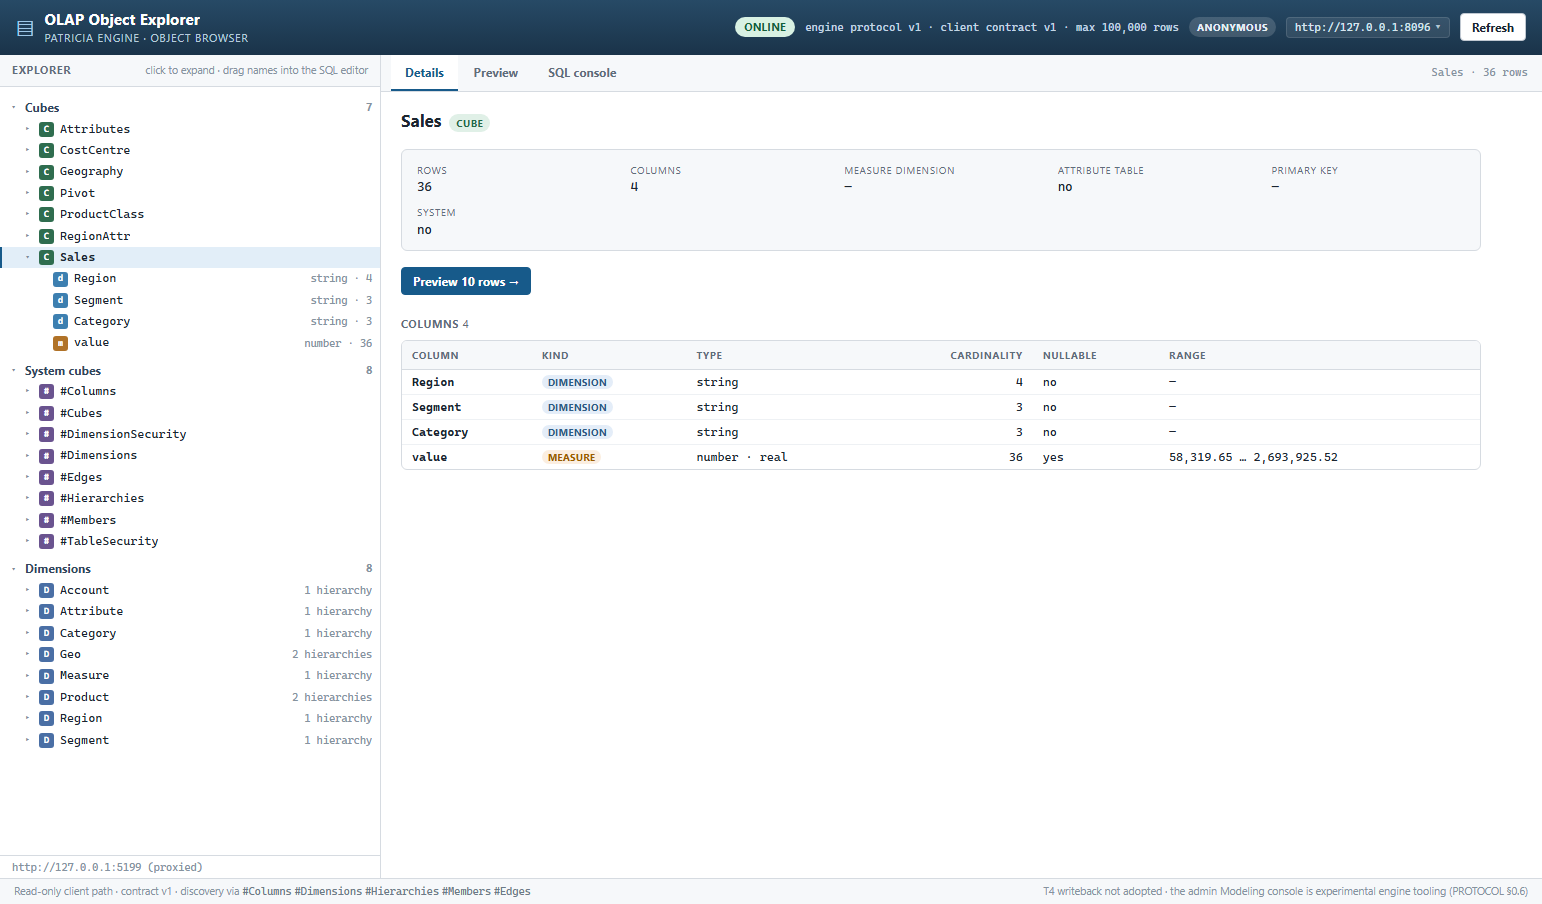
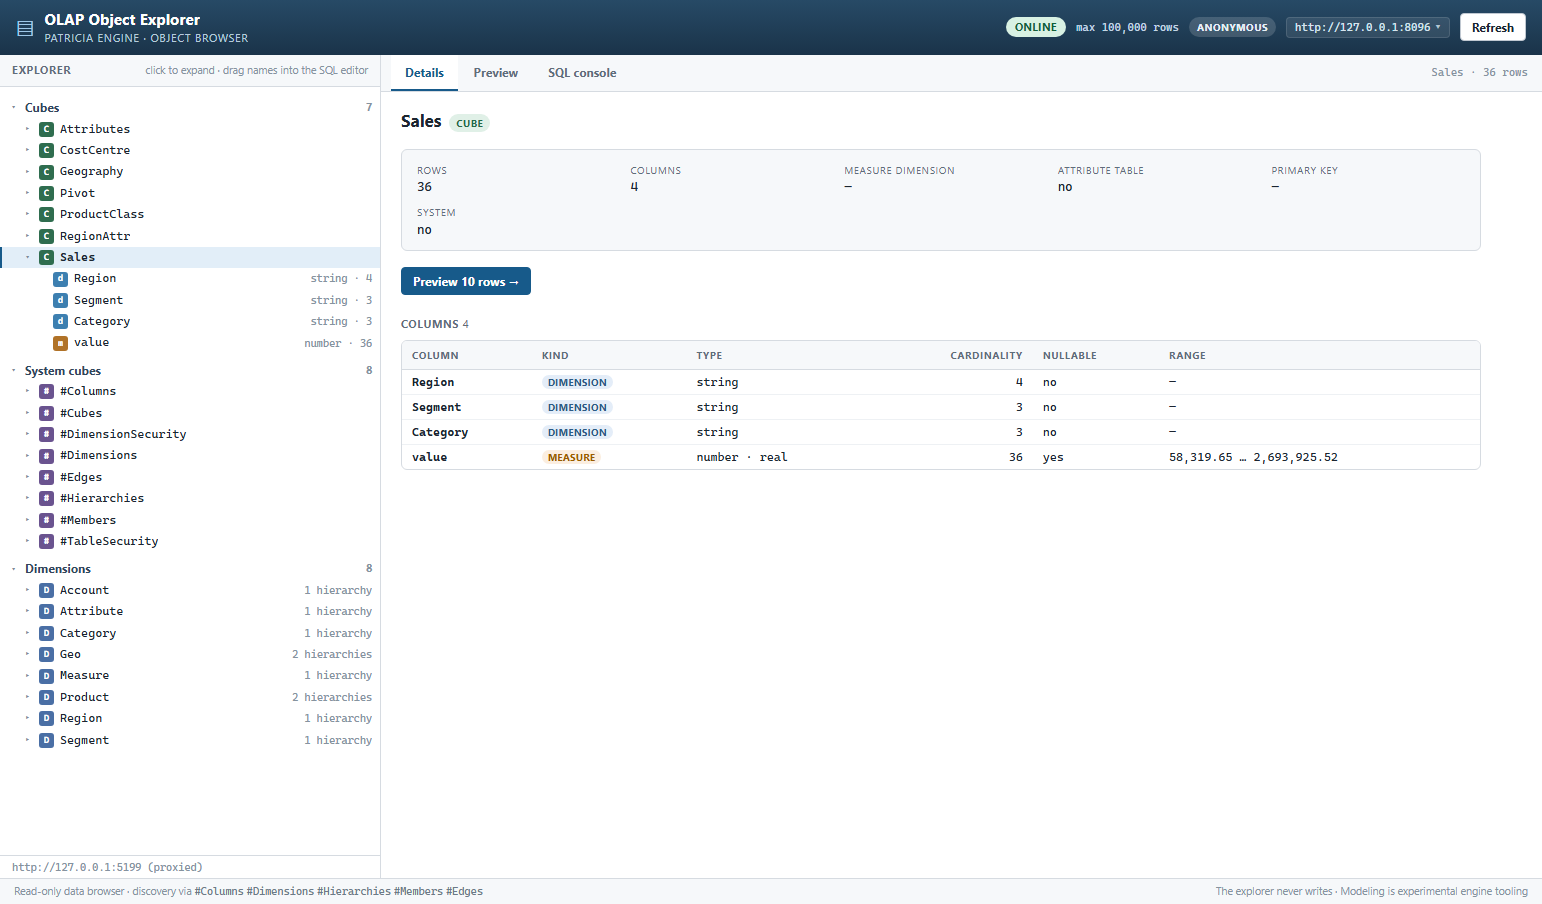
chore(ui): remove contract/protocol jargon from screen copy
Screens no longer cite contracts, PROTOCOL sections, tiers, handoffs or
protocolVersion. The header keeps only the row cap; the footer says the
explorer never writes; the version guard, SQL/CLI hints and Details domain/
system-cube notes are reworded in plain language. Internal comments and the
README keep the technical references. Verification updated for the new version
panel wording (66 checks).

diff --git a/src/App.tsx b/src/App.tsx
@@ -498,7 +498,6 @@ export default function App() {
           </span>
           {capabilities.status === 'ready' && (
             <span className="header-meta">
-              engine protocol v{capabilities.data.protocolVersion} · client contract v{SUPPORTED_PROTOCOL_VERSION} ·
               max {formatCount(capabilities.data.maxRows)} rows
             </span>
           )}          {capabilities.status === 'ready' && capabilities.data.authRequired === false && (
@@ -651,14 +650,10 @@ export default function App() {
 
       <footer className="app-footer">
         <span>
-          Read-only client path · contract v{SUPPORTED_PROTOCOL_VERSION} · discovery via{' '}
-          <code>#Columns</code> <code>#Dimensions</code> <code>#Hierarchies</code>{' '}
-          <code>#Members</code> <code>#Edges</code>
+          Read-only data browser · discovery via <code>#Columns</code> <code>#Dimensions</code>{' '}
+          <code>#Hierarchies</code> <code>#Members</code> <code>#Edges</code>
         </span>
-        <span>
-          T4 writeback not adopted · the admin Modeling console is experimental engine tooling
-          (PROTOCOL §0.6)
-        </span>
+        <span>The explorer never writes · Modeling is experimental engine tooling</span>
       </footer>
     </div>
   );
@@ -681,13 +676,14 @@ function UnsupportedVersion({
   return (
     <div className="main-message" data-testid="version-blocked">
       <div className="version-card">
-        <h2>Unsupported contract version</h2>
+        <h2>Unsupported engine version</h2>
         <p>
-          This explorer pins <strong>contract v{supported}</strong> (protocolVersion {supported}). The
-          engine reports <strong>protocolVersion {reported}</strong>, so no data was requested.
+          This explorer supports engine API version <strong>{supported}</strong>. The engine
+          reports <strong>{reported}</strong>, so no data was requested.
         </p>
         <p className="muted">
-          Update the client, or point <code>?engine=</code> at a v{supported} engine, then retry.
+          Update the explorer, or point <code>?engine=</code> at an engine with API version{' '}
+          {supported}, then retry.
         </p>
         <button type="button" className="btn btn-primary" onClick={onRetry}>
           Retry

diff --git a/src/sql.tsx b/src/sql.tsx
@@ -280,19 +280,18 @@ export function SqlConsole({ datasets, selectedCube, selectedDimension }: SqlCon
 
       <p className="hint">
         Only <code>SELECT</code> is accepted. A dimension you omit aggregates across{' '}
-        <strong>all of its members</strong> — there is no implicit default member (contract D22);
-        an explicit model default, if one is set, would restrict it. System cubes always read all
-        rows. Ctrl+Enter runs.
+        <strong>all of its members</strong> — there is no implicit default; an explicit model
+        default, if one is set, would restrict them. System cubes always read all rows. Ctrl+Enter
+        runs.
       </p>
 
       <p className="hint" data-testid="sql-gaps">
-        <strong>Known engine gaps on this tooling path</strong> (contract §11.6/§11.7/§11.8):{' '}
-        <code>GROUP BY</code>/<code>HAVING</code>/<code>DISTINCT</code> are parsed but ignored —
-        project the dimensions explicitly; <code>COUNT</code> over a text column returns the last
-        text, not a cell count — use <code>COUNTD</code> for text; and a projection with no measure
-        repeats each group once per measure member — keep <code>value</code> or a measure in the
-        list. This surface is not a client data path (contract §0.5); the tree and details pane
-        use the query API.
+        <strong>Known limitations of this SQL console:</strong>{' '}
+        <code>GROUP BY</code>/<code>HAVING</code>/<code>DISTINCT</code> are ignored — project the
+        dimensions explicitly; <code>COUNT</code> over a text column returns the last text, not a
+        cell count — use <code>COUNTD</code> for text; and a projection with no measure repeats
+        each group once per measure member — keep <code>value</code> or a measure in the list. For
+        normal exploration use the tree and the Details/Preview panes.
       </p>
 
       {pendingCube !== null && (

diff --git a/src/cli.tsx b/src/cli.tsx
@@ -296,16 +296,16 @@ export function CliConsole({ supportsCli, roles, anonymous, user }: CliConsolePr
           experimental engine tooling
         </span>
         <span className="muted">
-          <code>POST /v1/cli</code> · admin only · one command per request · not a conformance tier
-          (PROTOCOL §0.6, D28)
+          <code>POST /v1/cli</code> · admin only · one command per request · experimental modelling
+          tool
         </span>
       </div>
 
       <p className="hint">
-        This is the engine's own CLI over HTTP, not a client data path: commands can model, import
-        and <code>.save</code>. <code>.exit</code>/<code>.quit</code> are no-ops — the server stays
-        up. Imports read <strong>server-side paths</strong>; this app has no upload route, so place
-        the file where the engine can read it and pass that path to <code>.import…</code>.
+        This is the engine's own CLI over HTTP: commands can model, import and <code>.save</code>.{' '}
+        <code>.exit</code>/<code>.quit</code> are no-ops — the server stays up. Imports read{' '}
+        <strong>server-side paths</strong>; this app has no upload route, so place the file where
+        the engine can read it and pass that path to <code>.import…</code>.
       </p>
 
       {anonymous && (

diff --git a/src/details.tsx b/src/details.tsx
@@ -119,8 +119,8 @@ function CubeDetails({ dataset, onSelectColumn, onShowPreview }: CubeDetailsProp
 
       {dataset.isSystem && (
         <p className="hint">
-          An engine-maintained system cube (<code>#</code> prefix, PROTOCOL §10.3). Read-only; it
-          lists every row unless filtered.
+          An engine-maintained system cube (<code>#</code> prefix). Read-only; it lists every row
+          unless filtered.
         </p>
       )}
 
@@ -329,8 +329,8 @@ function DomainValues({ dataset, field }: { dataset: string; field: string }) {
       )}
 
       <p className="hint">
-        Full member list in engine display order, fetched with <code>domainFor</code> (PROTOCOL
-        §5.6). Dimension access may hide members; an empty list means the caller may see none.
+        Full member list in engine display order, fetched with <code>domainFor</code>. Dimension
+        access may hide members; an empty list means the caller may see none.
       </p>
     </div>
   );
